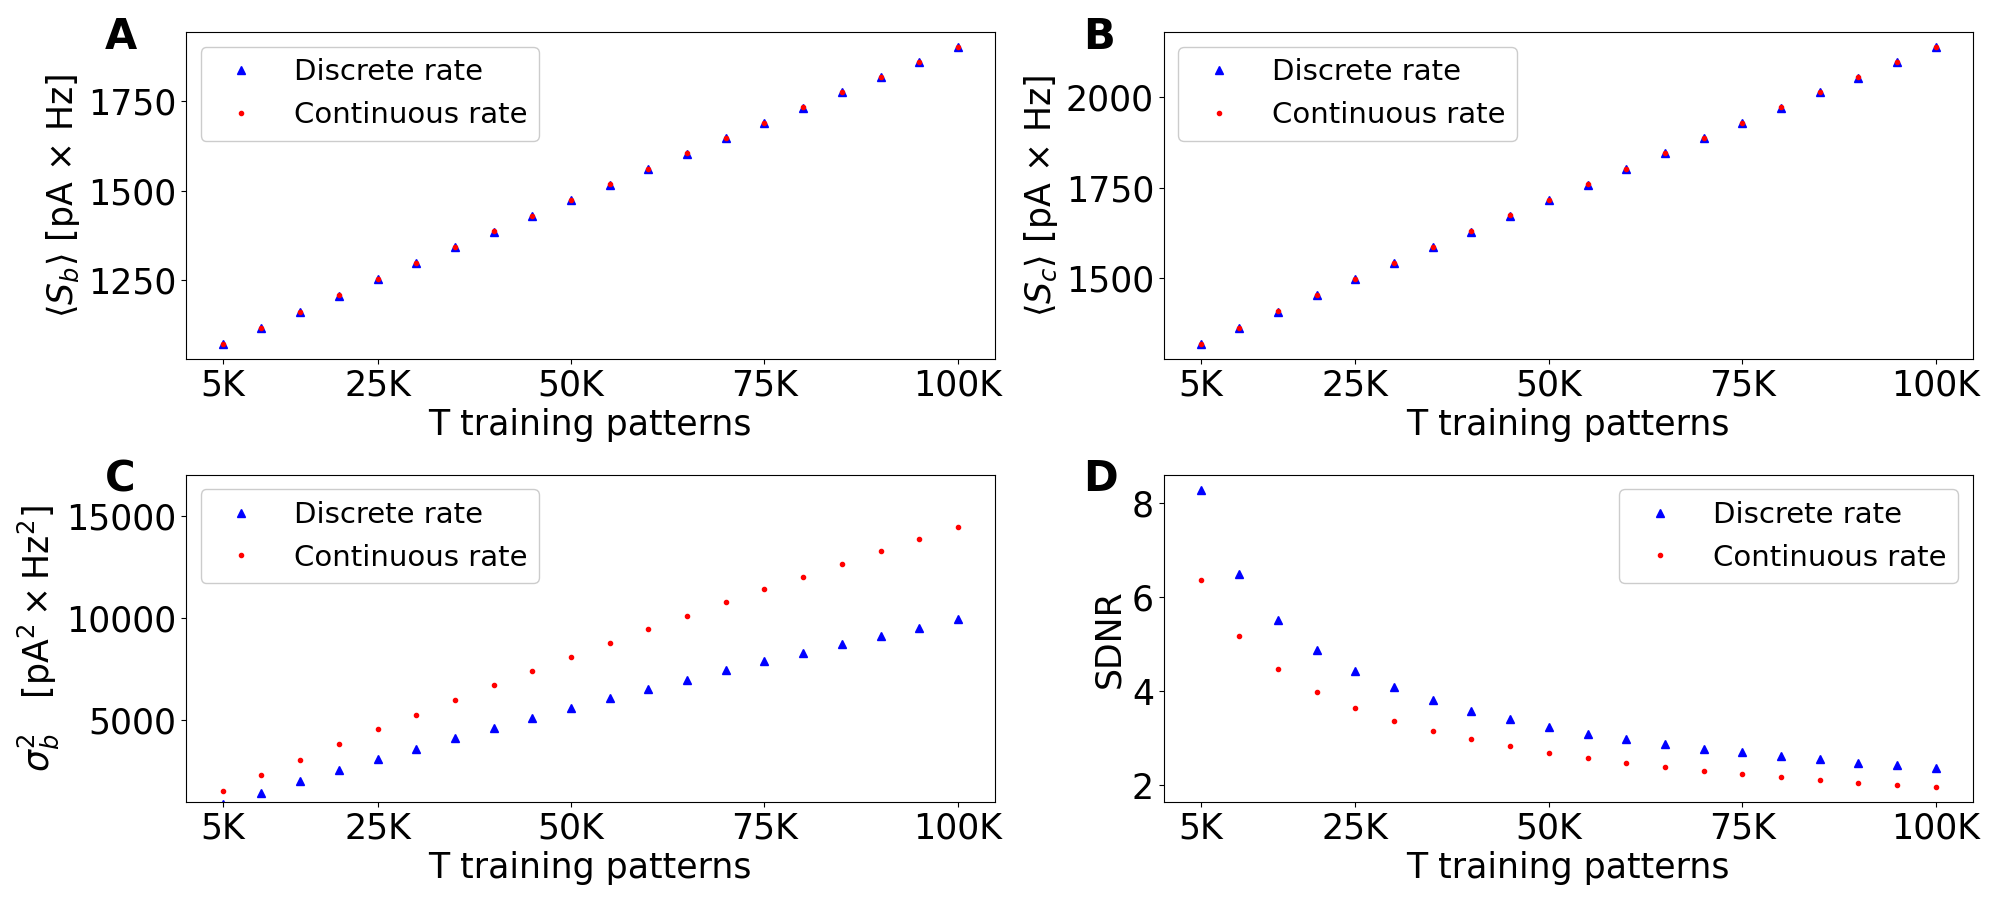
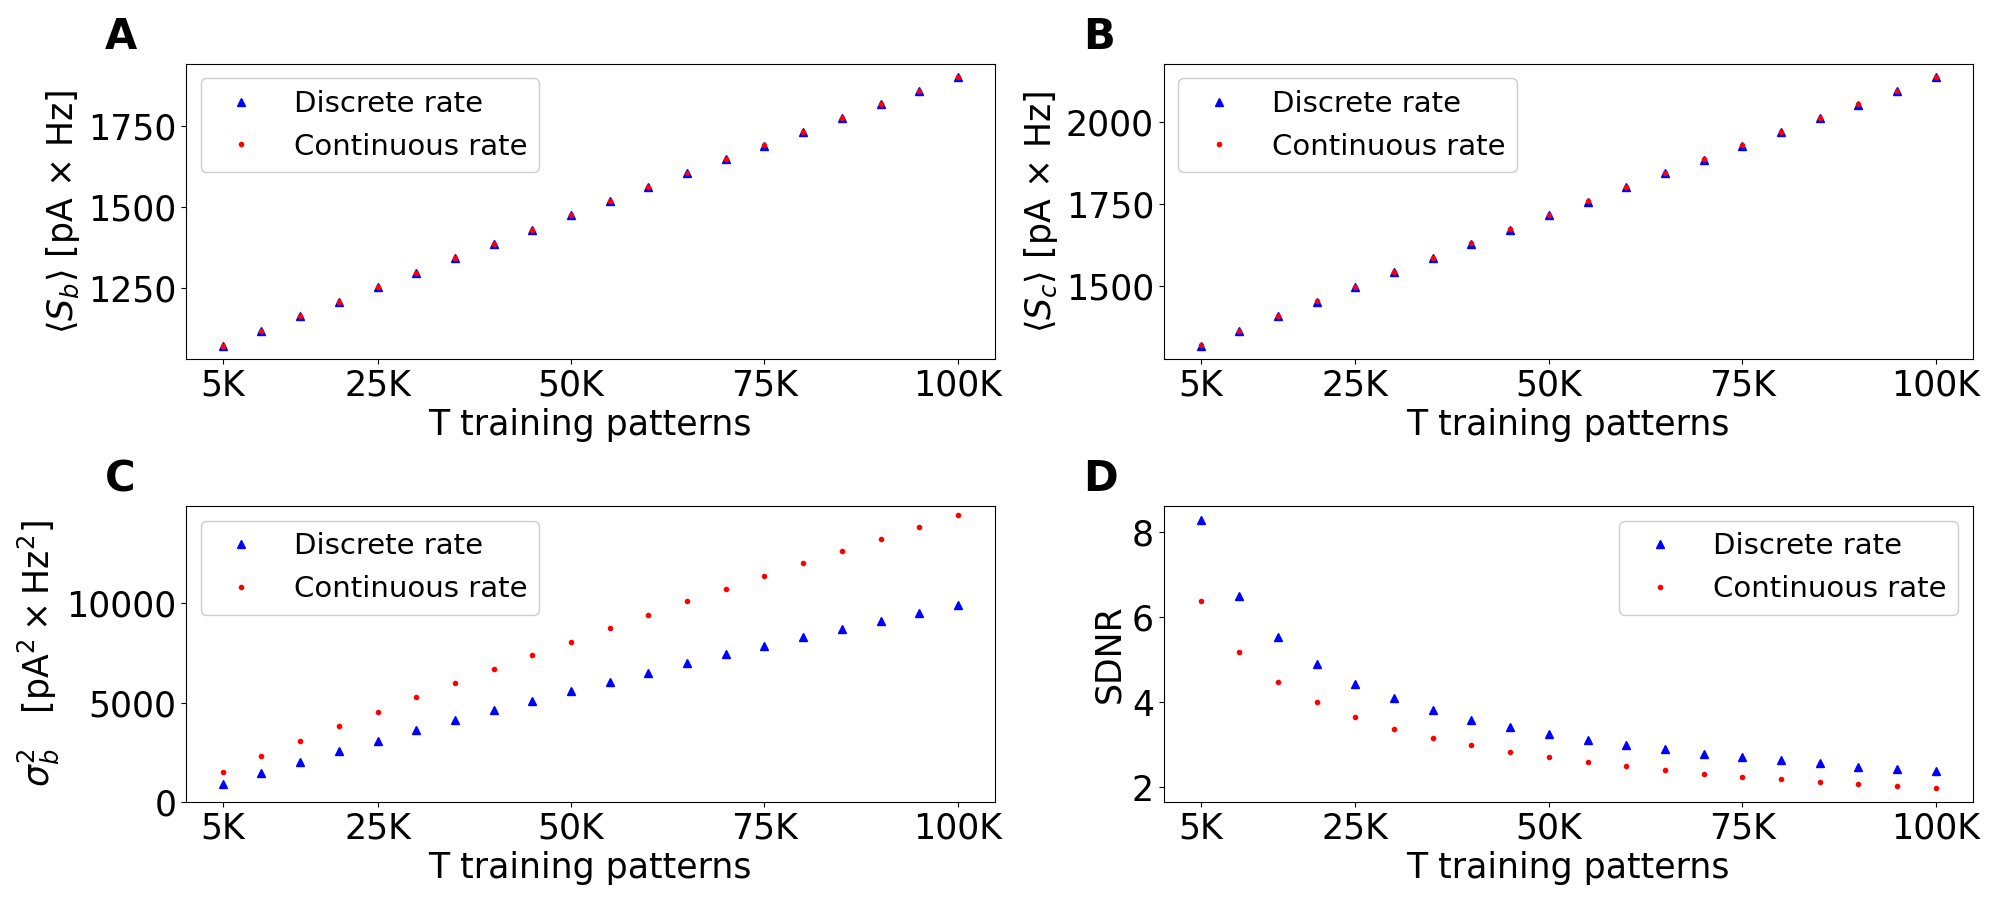
updated plots

diff --git a/plot/plot.py b/plot/plot.py
@@ -275,7 +275,7 @@ def plot_data(discr, th_discr, ln, th_ln, ln_noise, th_ln_noise):
     ax7 = axs[3,0] # discrete rate - CNR
     ax8 = axs[3,1] # lognormal rate - CNR
 
-    ax1.text(-0.1, 0.95, "A", weight="bold", fontsize=30, color='k', transform=ax1.transAxes)
+    ax1.text(-0.1, 1.05, "A", weight="bold", fontsize=30, color='k', transform=ax1.transAxes)
     ax1.set_title("Discrete rate model", fontsize=legend_fs)
     ax1.fill_between(discr['T'], discr['Sb_av']-discr['Sb_std'], discr['Sb_av']+discr['Sb_std'], color="red", alpha=0.2)
     ax1.plot(discr['T'], discr['Sb_av'], "-", color="blue", label="Simulation")
@@ -309,17 +309,18 @@ def plot_data(discr, th_discr, ln, th_ln, ln_noise, th_ln_noise):
     ax2.legend(fontsize=legend_fs, framealpha=1.0)
 
 
-    ax3.text(-0.1, 0.95, "C", weight="bold", fontsize=30, color='k', transform=ax3.transAxes)
+    ax3.text(-0.1, 1.05, "C", weight="bold", fontsize=30, color='k', transform=ax3.transAxes)
     #ax3.fill_between(discr['T'], discr['varSb_av']-discr['varSb_std'], discr['varSb_av']+discr['varSb_std'], color="blue", alpha=0.2)
     ax3.plot(discr['T'], discr['varSb_av'], "-", color="blue", label="Simulation")
     ax3.plot(discr['T'], th_discr['varSb_th'], "--", color="red", label="Theory")
     #ax3.set_xlabel("T training patterns", fontsize=tick_fs)
     ax3.set_ylabel(r"$\sigma^2_b$ $\quad [\mathrm{pA}^2 \times \mathrm{Hz}^2]$", fontsize=tick_fs)
     ax3.tick_params(labelsize=tick_fs)
-    #ax3.set_xscale('log')
+    ax3.set_ylimit(0,14000)
     ax3.set_xticks([5000, 25000, 50000, 75000, 100000])
     ax3.set_xticklabels(["5K", "25K", "50K", "75K", "100K"])
     ax3.grid()
+
     #ax3.legend(title=r"$\sigma^2_b$", fontsize=legend_fs, title_fontsize=legend_fs, framealpha=1.0)
 
 
@@ -342,7 +343,7 @@ def plot_data(discr, th_discr, ln, th_ln, ln_noise, th_ln_noise):
 
 
     #ax5.fill_between(discr['T'], discr['S2_av']-discr['S2_std'], discr['S2_av']+discr['S2_std'], color="blue", alpha=0.2)
-    ax5.text(-0.1, 0.95, "C", weight="bold", fontsize=30, color='k', transform=ax5.transAxes)
+    ax5.text(-0.1, 1.05, "C", weight="bold", fontsize=30, color='k', transform=ax5.transAxes)
     ax5.plot(discr['T'], discr['S2_av'], "-", color="blue", label="Simulation")
     ax5.plot(discr['T'], th_discr['S2_th'], "--", color="red", label="Theory")
     #ax5.set_xlabel("T training patterns", fontsize=tick_fs)
@@ -372,7 +373,7 @@ def plot_data(discr, th_discr, ln, th_ln, ln_noise, th_ln_noise):
     ax6.grid()
     #ax6.legend(title=r" $\langle S_c \rangle$", fontsize=legend_fs, title_fontsize=legend_fs, framealpha=1.0)
 
-    ax7.text(-0.1, 0.95, "D", weight="bold", fontsize=30, color='k', transform=ax7.transAxes)
+    ax7.text(-0.1, 1.05, "D", weight="bold", fontsize=30, color='k', transform=ax7.transAxes)
     ax7.plot(discr['T'], np.abs(discr['S2_av']-discr['Sb_av'])/np.sqrt(discr['varSb_av']), "-", color="blue", label="Simulation")
     ax7.plot(discr['T'], np.abs(th_discr['S2_th']-th_discr['Sb_th'])/np.sqrt(th_discr['varSb_th']), "--", color="red", label="Theory")
     ax7.set_xlabel("T training patterns", fontsize=tick_fs)
@@ -438,7 +439,7 @@ def plot_data_luca(discr, th_discr, ln, th_ln, ln_noise, th_ln_noise):
     ax4 = axs[1,1] # lognormal rate - varSb
 
    # ax1.yaxis.set_major_formatter(FuncFormatter(format_exp))
-    ax1.text(-0.1, 0.95, "A", weight="bold", fontsize=30, color='k', transform=ax1.transAxes)
+    ax1.text(-0.1, 1.05, "A", weight="bold", fontsize=30, color='k', transform=ax1.transAxes)
     ax1.plot(discr['T'], discr['Sb_av'], "^", color="blue", label="Discrete rate")
     ax1.plot(ln['T'], ln['Sb_av'], ".", color="red", label="Continuous rate")
     ax1.set_ylabel(r"$\langle S_b \rangle$ [pA $\times$ Hz]", fontsize=tick_fs)
@@ -451,7 +452,7 @@ def plot_data_luca(discr, th_discr, ln, th_ln, ln_noise, th_ln_noise):
     ax1.legend(fontsize=legend_fs, framealpha=1.0)
 
     #ax2.yaxis.set_major_formatter(FuncFormatter(format_exp))
-    ax2.text(-0.1, 0.95, "B", weight="bold", fontsize=30, color='k', transform=ax2.transAxes)
+    ax2.text(-0.1, 1.05, "B", weight="bold", fontsize=30, color='k', transform=ax2.transAxes)
     #ax2.set_ylim(1000,19000)ax2.set_ylim(1000,19000)
     ax2.plot(discr['T'], discr['S2_av'], "^", color="blue", label="Discrete rate")
     ax2.plot(ln['T'], ln['S2_av'], ".", color="red", label="Continuous rate")
@@ -466,20 +467,21 @@ def plot_data_luca(discr, th_discr, ln, th_ln, ln_noise, th_ln_noise):
 
     ax3.set_ylim(1000,17000)
     #ax3.yaxis.set_major_formatter(FuncFormatter(format_exp))
-    ax3.text(-0.1, 0.95, "C", weight="bold", fontsize=30, color='k', transform=ax3.transAxes)
+    ax3.text(-0.1, 1.05, "C", weight="bold", fontsize=30, color='k', transform=ax3.transAxes)
     ax3.plot(discr['T'], discr['varSb_av'], "^", color="blue", label="Discrete rate")
     ax3.plot(ln['T'], ln['varSb_av'], ".", color="red", label="Continuous rate")
     ax3.set_xlabel("T training patterns", fontsize=tick_fs)
     ax3.set_ylabel(r"$\sigma^2_b \quad [\mathrm{pA}^2 \times \mathrm{Hz}^2]$", fontsize=tick_fs)
     ax3.tick_params(labelsize=tick_fs)
     #ax3.set_xscale('log')
+    ax3.set_ylim(0,14900)
     ax3.set_xticks([5000, 25000, 50000, 75000, 100000])
     ax3.set_xticklabels(["5K", "25K", "50K", "75K", "100K"])
     #ax3.legend(title=r"$\sigma^2_b$", fontsize=legend_fs, title_fontsize=legend_fs, framealpha=1.0)
     ax3.legend(fontsize=legend_fs, framealpha=1.0)
 
     #ax4.yaxis.set_major_formatter(FuncFormatter(format_exp))
-    ax4.text(-0.1, 0.95, "D", weight="bold", fontsize=30, color='k', transform=ax4.transAxes)
+    ax4.text(-0.1, 1.05, "D", weight="bold", fontsize=30, color='k', transform=ax4.transAxes)
     ax4.plot(discr['T'], np.abs(discr['S2_av']-discr['Sb_av'])/np.sqrt(discr['varSb_av']), "^", color="blue", label="Discrete rate")
     ax4.plot(ln['T'], np.abs(ln['S2_av']-ln['Sb_av'])/np.sqrt(ln['varSb_av']), ".", color="red", label="Continuous rate")
     ax4.set_xlabel("T training patterns", fontsize=tick_fs)

diff --git a/plot/plot_cn.py b/plot/plot_cn.py
@@ -157,15 +157,15 @@ for j in [0,1,2,3]:
 #S2t = rh*Wc*p1*C + rl*(1.0-p1)*(W0*C + (Wc - W0)*k)
 #vart = (Wc*Wc*k + W0*W0*(C-k))*sigma2r + (Wc - W0)*(Wc - W0)*r*r*sigma2k
 
-
-ax1.plot(R10K, [varSb_exp_1[0], varSb_exp_2[0], varSb_exp_5[0], varSb_exp[0] ], "o", linewidth=4, color="blue", label="Sim N=10K")
-ax1.plot(R50K, [varSb_exp_1[1], varSb_exp_2[1], varSb_exp_5[1], varSb_exp[1]], "o", linewidth=4, color="red", label="Sim N=50K")
-ax1.plot(R100K, [varSb_exp_1[2], varSb_exp_2[2], varSb_exp_5[2], varSb_exp[2]], "o", linewidth=4, color="black", label="Sim N=100K")
-ax1.plot(R200K, [varSb_exp_1[3], varSb_exp_2[3], varSb_exp_5[3], varSb_exp[3]], "o", linewidth=4, color="green", label="Sim N=200K")
-ax1.plot(C_frac_10,varSb_t_10k, "-.", color="blue", linewidth=3, label="Th N=10K")
-ax1.plot(C_frac_50,varSb_t_50k, "--", color="red", linewidth=3, label="Th N=50K")
-ax1.plot(C_frac_100,varSb_t_100k, "-", color="black", linewidth=3, label="Th N=100K")
-ax1.plot(C_frac_200,varSb_t_200k, ":", color="green", linewidth=3, label="Th N=200K")
+ax1.text(-0.1, 1.05, "A", weight="bold", fontsize=30, color='k', transform=ax1.transAxes)
+ax1.plot(R10K, [varSb_exp_1[0], varSb_exp_2[0], varSb_exp_5[0], varSb_exp[0] ], "o", linewidth=2, color="blue", label="Sim N=10K")
+ax1.plot(R50K, [varSb_exp_1[1], varSb_exp_2[1], varSb_exp_5[1], varSb_exp[1]], "o", linewidth=2, color="red", label="Sim N=50K")
+ax1.plot(R100K, [varSb_exp_1[2], varSb_exp_2[2], varSb_exp_5[2], varSb_exp[2]], "o", linewidth=2, color="black", label="Sim N=100K")
+ax1.plot(R200K, [varSb_exp_1[3], varSb_exp_2[3], varSb_exp_5[3], varSb_exp[3]], "o", linewidth=2, color="green", label="Sim N=200K")
+ax1.plot(C_frac_10,varSb_t_10k, "-.", color="blue", linewidth=2, label="Th N=10K")
+ax1.plot(C_frac_50,varSb_t_50k, "--", color="red", linewidth=2, label="Th N=50K")
+ax1.plot(C_frac_100,varSb_t_100k, "-", color="black", linewidth=2, label="Th N=100K")
+ax1.plot(C_frac_200,varSb_t_200k, ":", color="green", linewidth=2, label="Th N=200K")
 ax1.set_xscale('log')
 ax1.set_xlim(0.001,1.1)
 
@@ -178,13 +178,13 @@ ax1.tick_params(labelsize=tick_fs)
 #ax1.legend(title=r"$\sigma^2_b$", fontsize=legend_fs, title_fontsize=legend_fs, framealpha=0.5)
 ax1.legend(fontsize=legend_fs, framealpha=0.5)
 
-
-ax2.plot(R10K, [abs(varSb_exp_1[0]-varSb_t_10k[999])/varSb_t_10k[999]*100, abs(varSb_exp_2[0]-varSb_t_10k[1999])/varSb_t_10k[1999]*100,abs( varSb_exp_5[0]-varSb_t_10k[4999])/varSb_t_10k[4999]*100, abs(varSb_exp[0]-varSb_t_10k[9999])/varSb_t_10k[9999]*100 ], "-.", color="blue", linewidth=3, label="N=10K")
-ax2.plot(R50K, [abs(varSb_exp_1[1]-varSb_t_50k[999])/varSb_t_50k[999]*100, abs(varSb_exp_2[1]-varSb_t_50k[1999])/varSb_t_50k[1999]*100,abs( varSb_exp_5[1]-varSb_t_50k[4999])/varSb_t_50k[4999]*100, abs(varSb_exp[1]-varSb_t_50k[9999])/varSb_t_50k[9999]*100 ], "--", color="red", linewidth=3, label="N=50K")
-ax2.plot(R100K,[abs((varSb_exp_1[2]-varSb_t_100k[999])/varSb_t_100k[999]*100),abs( (varSb_exp_2[2]-varSb_t_100k[1999])/varSb_t_100k[1999]*100),abs( (varSb_exp_5[2]-varSb_t_100k[4999])/varSb_t_100k[4999]*100), abs((varSb_exp[2]-varSb_t_100k[9999])/varSb_t_100k[9999]*100)], "-", color="black", linewidth=3, label="N=100K")
+ax2.text(-0.1, 1.05, "B", weight="bold", fontsize=30, color='k', transform=ax2.transAxes)
+ax2.plot(R10K, [abs(varSb_exp_1[0]-varSb_t_10k[999])/varSb_t_10k[999]*100, abs(varSb_exp_2[0]-varSb_t_10k[1999])/varSb_t_10k[1999]*100,abs( varSb_exp_5[0]-varSb_t_10k[4999])/varSb_t_10k[4999]*100, abs(varSb_exp[0]-varSb_t_10k[9999])/varSb_t_10k[9999]*100 ], "-.", color="blue", linewidth=2, label="N=10K")
+ax2.plot(R50K, [abs(varSb_exp_1[1]-varSb_t_50k[999])/varSb_t_50k[999]*100, abs(varSb_exp_2[1]-varSb_t_50k[1999])/varSb_t_50k[1999]*100,abs( varSb_exp_5[1]-varSb_t_50k[4999])/varSb_t_50k[4999]*100, abs(varSb_exp[1]-varSb_t_50k[9999])/varSb_t_50k[9999]*100 ], "--", color="red", linewidth=2, label="N=50K")
+ax2.plot(R100K,[abs((varSb_exp_1[2]-varSb_t_100k[999])/varSb_t_100k[999]*100),abs( (varSb_exp_2[2]-varSb_t_100k[1999])/varSb_t_100k[1999]*100),abs( (varSb_exp_5[2]-varSb_t_100k[4999])/varSb_t_100k[4999]*100), abs((varSb_exp[2]-varSb_t_100k[9999])/varSb_t_100k[9999]*100)], "-", color="black", linewidth=2, label="N=100K")
 #ax2.plot(T200K,[Sb_exp_1[0]-Sb_t_10k[999], Sb_exp_2[0]-Sb_t_10k[1999], Sb_exp_5[0]-Sb_t_10k[4999], Sb_exp[0]-Sb_t_10k[9999], "--", color="green", label="Teoria N=200K")
 #ax2.plot(C_frac_10,[Sb_exp_1[1]-Sb_t_50k[999], Sb_exp_2[1]-Sb_t_50k[1999], Sb_exp_5[1]-Sb_t_50k[4999], Sb_exp[1]-Sb_t_50k[9999] ], "--", color="blue", label="Teoria N=50K")
-ax2.plot(R200K, [abs(varSb_exp_1[3]-varSb_t_200k[999])/varSb_t_200k[999]*100, abs(varSb_exp_2[3]-varSb_t_200k[1999])/varSb_t_200k[1999]*100,abs( varSb_exp_5[3]-varSb_t_200k[4999])/varSb_t_200k[4999]*100, abs(varSb_exp[3]-varSb_t_200k[9999])/varSb_t_200k[9999]*100 ], ":", linewidth=3, color="green", label="N=200K")
+ax2.plot(R200K, [abs(varSb_exp_1[3]-varSb_t_200k[999])/varSb_t_200k[999]*100, abs(varSb_exp_2[3]-varSb_t_200k[1999])/varSb_t_200k[1999]*100,abs( varSb_exp_5[3]-varSb_t_200k[4999])/varSb_t_200k[4999]*100, abs(varSb_exp[3]-varSb_t_200k[9999])/varSb_t_200k[9999]*100 ], ":", color="green", label="N=200K")
 
 
 
@@ -198,5 +198,5 @@ ax2.set_xscale('log')
 ax2.legend(fontsize=legend_fs, framealpha=0.5)
 
 
-plt.savefig("cn_plot.png")
+plt.savefig("cn_prova.png")
 plt.show()

diff --git a/plot/plot_residui.py b/plot/plot_residui.py
@@ -495,7 +495,7 @@ def plot_data(discr, th_discr, ln, th_ln, ln_noise, th_ln_noise, label, saturati
     l6_th, = ax9.plot(th_ln_noise[5]['T'], th_ln_noise[5]['Sb_th'], "--", color=th_colors[5], label="Th - " + label[5] + " noise")
     l6, = ax9.plot(ln_noise[5]['T'], ln_noise[5]['Sb_av'], "^", color=colors[5], label="Sim - " + label[5] + " noise")
     
-    ax9.text(-0.1, 1, "A", weight="bold", fontsize=30, color='k', transform=ax9.transAxes)
+    ax9.text(-0.1, 1.05, "A", weight="bold", fontsize=30, color='k', transform=ax9.transAxes)
     #ax9.set_xlabel("T (training patterns)", fontsize=tick_fs)
     ax9.set_ylabel(r"$\langle S_b \rangle$ [pA $\times$ Hz]", fontsize=tick_fs)
     ax9.tick_params(labelsize=tick_fs)
@@ -548,7 +548,7 @@ def plot_data(discr, th_discr, ln, th_ln, ln_noise, th_ln_noise, label, saturati
     #ax4.fill_between(ln['T'], ln['varSb_av']-ln['varSb_std'], ln['varSb_av']+ln['varSb_std'], color="blue", alpha=0.2)
     #ax11.plot(ln['T'], ln['varSb_av'], "-", color="blue", label="Sim - w/out noise")
     #ax11.plot(ln['T'], th_ln['varSb_th'], "--", color="cornflowerblue", label="Th - w/out noise")
-    ax11.text(-0.1, 1, "C", weight="bold", fontsize=30, color='k', transform=ax11.transAxes)
+    ax11.text(-0.1, 1.05, "C", weight="bold", fontsize=30, color='k', transform=ax11.transAxes)
     for i in range(len(ln_noise)):
         ax11.plot(ln_noise[i]['T'], th_ln_noise[i]['varSb_th'], "--", color=th_colors[i], label="Th - " + label[i] + " noise")
         ax11.plot(ln_noise[i]['T'], ln_noise[i]['varSb_av'], "^", color=colors[i], label="Sim - " + label[i] + " noise")
@@ -586,7 +586,7 @@ def plot_data(discr, th_discr, ln, th_ln, ln_noise, th_ln_noise, label, saturati
 
 
     #ax6.fill_between(ln_noise['T'], ln_noise['S2_av']-ln_noise['S2_std'], ln_noise['S2_av']+ln_noise['S2_std'], color="cornflowerblue", alpha=0.2)
-    ax13.text(-0.1, 1, "B", weight="bold", fontsize=30, color='k', transform=ax13.transAxes)
+    ax13.text(-0.1, 1.05, "B", weight="bold", fontsize=30, color='k', transform=ax13.transAxes)
     for i in range(len(ln_noise)):
         ax13.plot(ln_noise[i]['T'], th_ln_noise[i]['S2_th'], "--", color=th_colors[i], label="Th - " + label[i] + " noise")
         ax13.plot(ln_noise[i]['T'], ln_noise[i]['S2_av'], "^", color=colors[i], label="Sim - " + label[i] + " noise")
@@ -633,7 +633,7 @@ def plot_data(discr, th_discr, ln, th_ln, ln_noise, th_ln_noise, label, saturati
 
 
     #ax15.set_xlabel("T (training patterns)", fontsize=tick_fs)
-    ax15.text(-0.1, 1, "D", weight="bold", fontsize=30, color='k', transform=ax15.transAxes)
+    ax15.text(-0.1, 1.05, "D", weight="bold", fontsize=30, color='k', transform=ax15.transAxes)
     ax15.set_ylabel(r"SDNR", fontsize=tick_fs)
     ax15.tick_params(labelsize=tick_fs)
     ax15.set_xscale('log')
@@ -670,7 +670,7 @@ def plot_data(discr, th_discr, ln, th_ln, ln_noise, th_ln_noise, label, saturati
     #plt.savefig("structural_plasticity.png")
 
     
-saturation = False
+saturation = True
 if saturation==True:
     sat = "_saturation"
 else:

diff --git a/plot/plot_no_rew.py b/plot/plot_no_rew.py
@@ -353,6 +353,7 @@ def plot_data(discr, ln,  ln_noise,  norew_noise):
     ax3.plot(norew_noise['T'], norew_noise['varSb_av'],"^", markersize=5, color="red", label="w/out rewiring")
     ax3.legend(fontsize=legend_fs, framealpha=1.0)
     ax3.set_ylabel(r"$\sigma^2_{b}$ [$pA^2 \times Hz^2$]", fontsize=tick_fs)
+    ax3.set_ylim(0,17000)
     ax3.tick_params(labelsize=tick_fs)
     ax3.set_xticks([5000, 25000, 50000, 75000, 100000])
     #ax3.set_xlim(5000,100000)

diff --git a/plot/plot_variable_rewiring.py b/plot/plot_variable_rewiring.py
@@ -294,6 +294,7 @@ def plot_data(data, th_data):
     ax1.ticklabel_format(style='plain', useOffset=False, axis='y') 
     #ax1.set_xticklabels([])
     ax1.grid()
+    ax1.set_ylim(1069.6,1070.4)
     
     #ax3.fill_between(data['t'][1:], data['varSb_av'][1:]-data['varSb_std'][1:], data['varSb_av'][1:]+data['varSb_std'][1:], color="blue", alpha=0.2)
     ax3.text(-0.1, 1.05, "B", weight="bold", fontsize=30, color='k', transform=ax3.transAxes)

diff --git a/plot/.#plot.py b/plot/.#plot.py
@@ -1,0 +1,1 @@
+luca@luca-Nitro-ANV15-51.26744:1708774813
